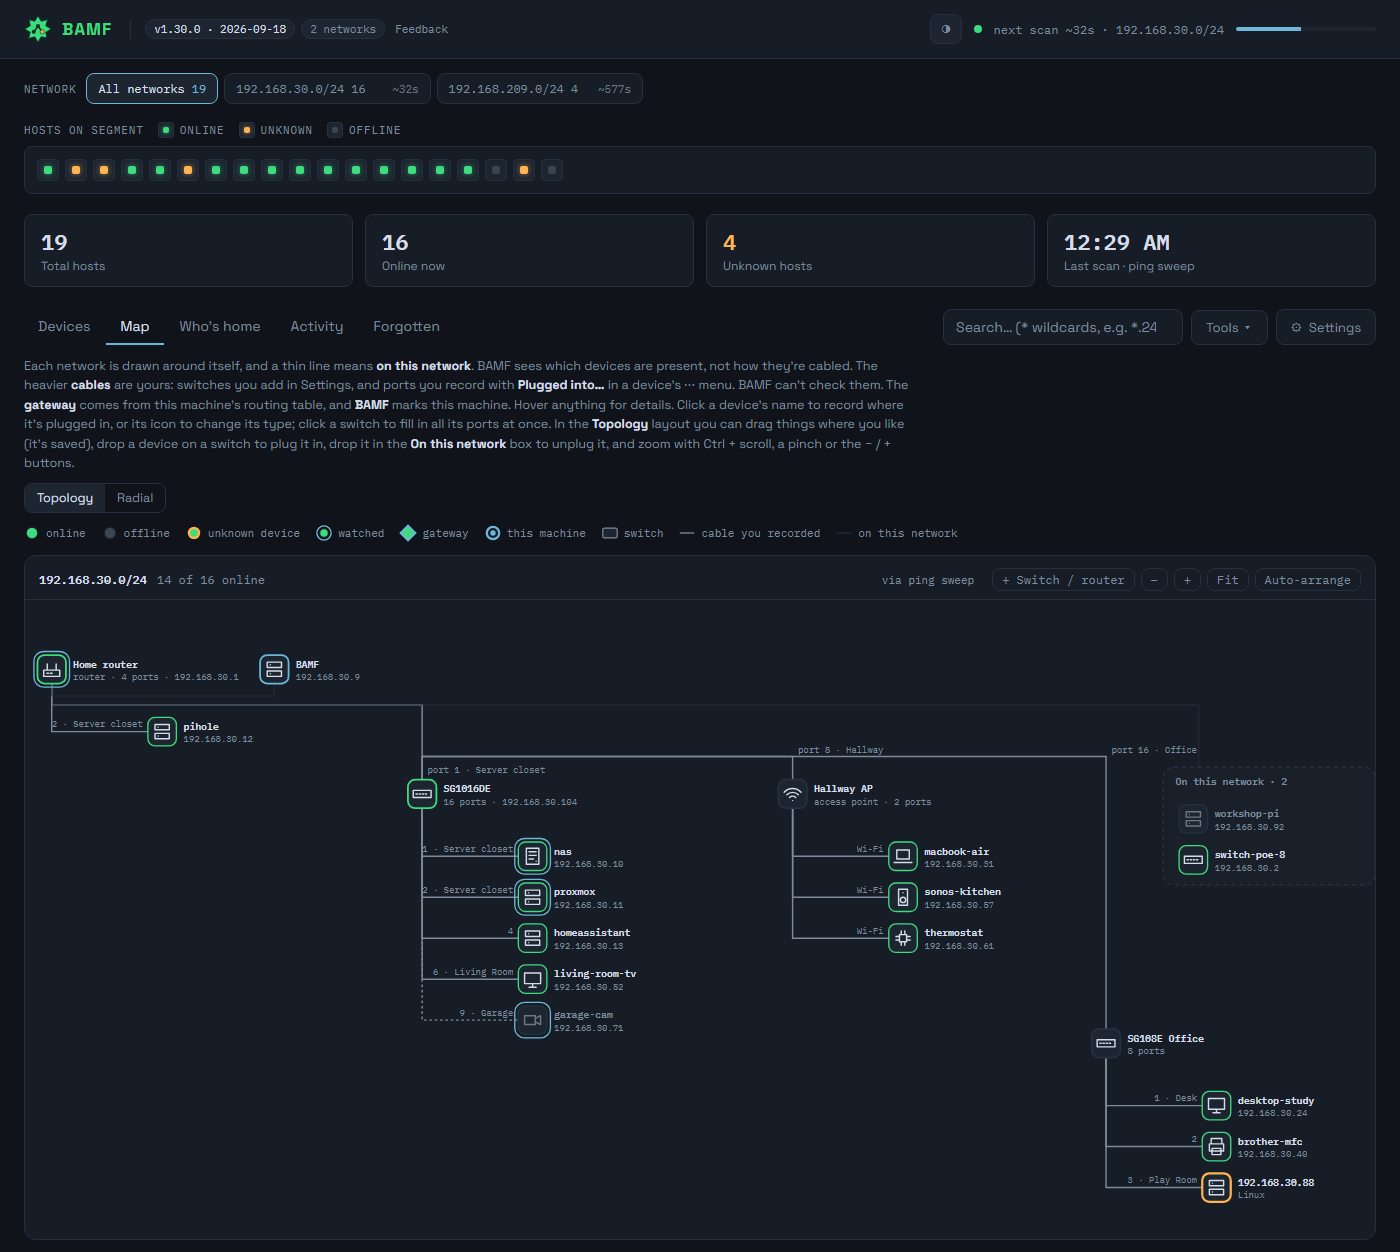
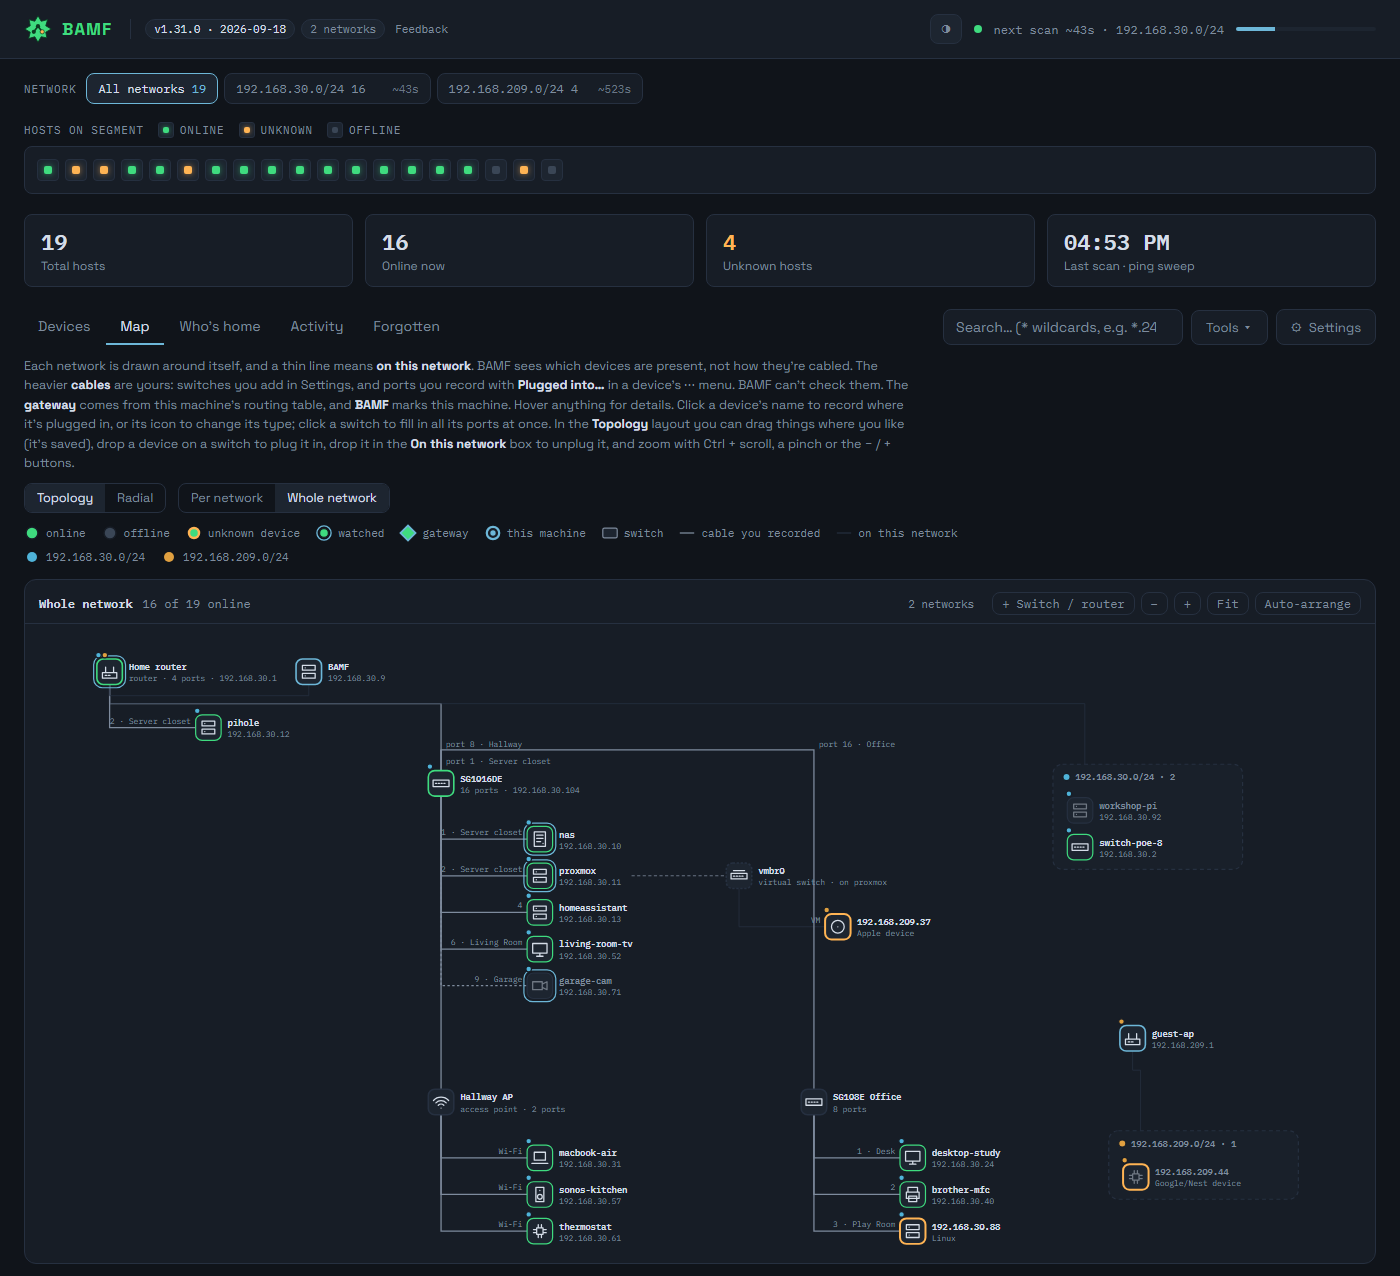
Recapture the README screenshots for 1.31.0 (#113)
* Recapture the README screenshots for 1.31.0

All three taken on the demo database with 1.31.0. The Map image now shows
the whole-network view: both demo networks in one diagram with their
colours, the recorded router, switches and access point, and a VM from the
second network on the Proxmox host's virtual switch, arranged by dragging so
the text stays readable. Settings now lists the virtual switch too.

* Count Thunderstorm in the README's theme total

diff --git a/README.md b/README.md
@@ -86,7 +86,7 @@ optional daily update check you have to switch on, and your own webhook.
 - One script installs *and* updates, preserving your config and database
 - Scheduled nightly backups keeping 30 snapshots, safe to sync to cloud storage
 - Optional password (HTTP Basic), optional HTTPS
-- 17 themes (and a couple more, if you know how to ask), a mobile card layout, and a
+- 18 themes (and a couple more, if you know how to ask), a mobile card layout, and a
   comic-book splat when you switch them
 
 **For scripts and AI agents**
@@ -97,12 +97,13 @@ optional daily update check you have to switch on, and your own webhook.
 
 ### See how it's laid out
 
-![The Map tab as a network diagram: the home router at the top with a device on its own port and BAMF beside it, a 16-port switch on the router's port 1 with its devices in port order and each port's location, an access point with its Wi-Fi clients, an office switch chained further along, and an icon for each kind of device](docs/map.png)
+![The Map's whole-network view: two networks in one diagram, each device tagged with its network's colour. The home router is at the top with a device on its own port and BAMF beside it. A 16-port switch on the router's port 1 has its devices in port order with each port's location, including a Proxmox host whose virtual switch holds a VM from the other network. An access point has its Wi-Fi clients, an office switch is chained further along, and the second network's gateway has its own box of devices](docs/map.png)
 
 The **Map** draws each network as a diagram: your router at the top with its own
 ports, your switches and access points under it, each one's devices in port
 order with where the cable goes (`6 · Living Room`), and an icon for each kind
-of device. Cabling isn't
+of device. **Whole network** puts every network in one diagram, drawn by the
+cabling, with each device tagged in its network's colour. Cabling isn't
 something ARP can see, so BAMF doesn't guess it. Record your switches under
 **Settings → Switches**, or just drag a device onto a switch on the map, and
 the map draws it as a cable. Anything you haven't recorded, like the Wi-Fi
